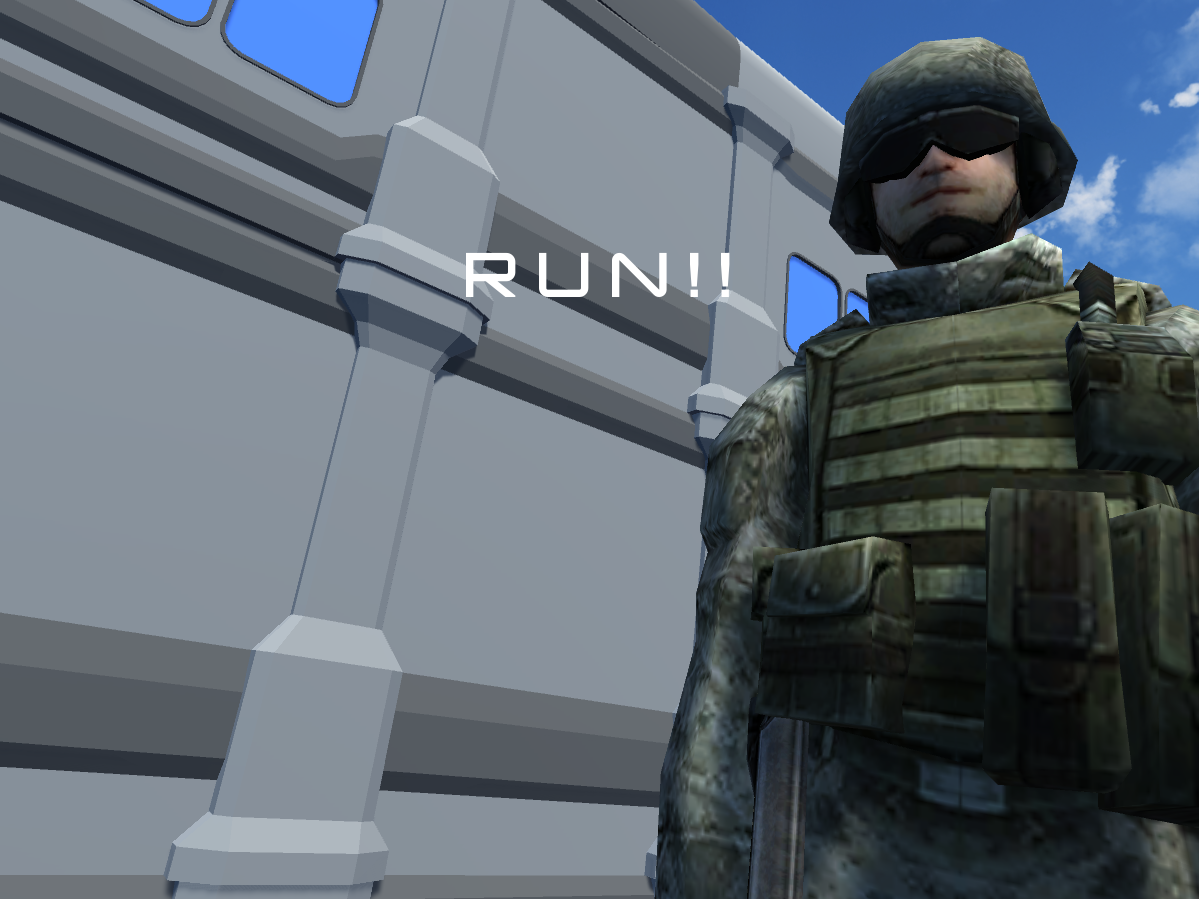
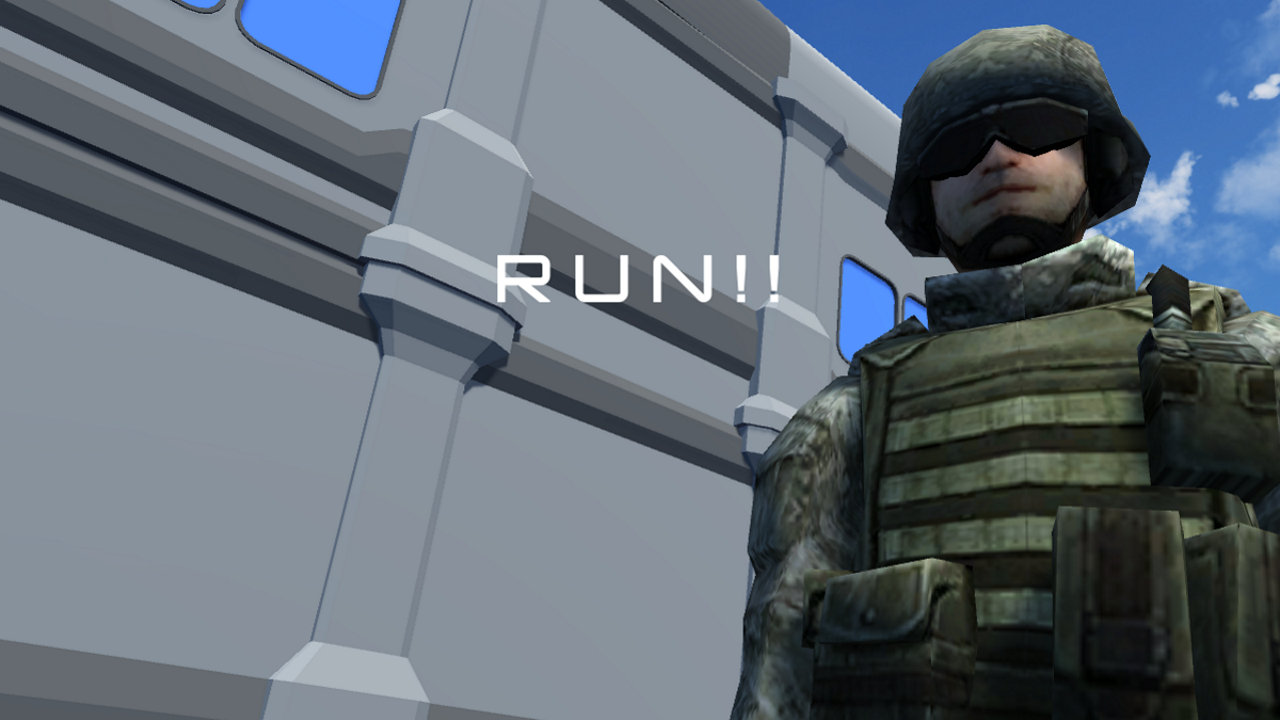
20220926

diff --git a/css/style.css b/css/style.css
@@ -32,8 +32,6 @@ img {
 ---------------------------------*/
 .section {
   position: relative;
-  top: 10%;
-  bottom: 10%;
   padding-bottom: 10%;
 }
 
@@ -71,22 +69,21 @@ img {
   background-color:#f4f4f4;
   box-shadow: 0px 1px 0px #cbcbcb;
   z-index: 2;
-  padding:0% 10%;
 }
 
 .header-inner {
   display: flex;
   align-items: center;
   justify-content: space-between;
-  padding: 2% 0;
+  padding: 20px 30px;
 }
 
 .header-logo {
   font-size: 20px;
   font-weight: bold;
   line-height: 1;
+  margin-right: 20px;
   letter-spacing: 0.05em;
-  margin-right: 10%;
 }
 
 .header-logo a {
@@ -100,20 +97,19 @@ img {
 .header-nav-list {
   display: flex;
   list-style: none;
-  
-  width: 50%;
+  justify-content: space-between;
 }
 
 .header-nav-item:not(:last-child) {
-  margin-right: 5%;
+  margin-right: 20px;
 }
 
 .header-nav-item a {
   font-size: 14px;
   font-weight: bold;
+  padding: 5px 0;
   letter-spacing: 0.05em;
   color: #333;
-  vertical-align: middle;
 }
 
 .header-nav-item a:hover {
@@ -125,20 +121,18 @@ img {
 ---------------------------------*/
 .split {
   width: 100%;
-  height: 90vh;
   display: flex;
   flex-wrap: wrap;
-  padding: 0 10%;
   justify-content: space-between;
   position: relative;
-  top: 10%;
+  margin-top: 65px;
   background-color:#ffffff;
 }
 
 .split-body {
   width: 50%;
   top: 50%;
-  left: 10.5%;
+  left: 5%;
   background-color: rgb(242, 184, 97);
   position: absolute;
   border-radius: 10px;

diff --git a/index.html b/index.html
@@ -52,7 +52,7 @@
     <main>
 
       <!-- split -->
-      <div class="split section">
+      <div class="split">
         <div class="split-body">
           <p class="split-title">荒瀬勇太</p>
           <p class="split-text">
@@ -63,15 +63,15 @@
           </p>
         </div>
 
-          <!-- slider -->
-          <div class="slider">
-            <ul>
-              <li><img class="sliderimage" src="img/work_increasespider.png"></li>
-              <li><img class="sliderimage" src="img/work_run.png"></li>
-              <li><img class="sliderimage" src="img/work_shoottheinvaders.png"></li>
-            </ul>
-          </div>
-          <!-- slider --> 
+        <!-- slider -->
+        <div class="slider">
+          <ul>
+            <li><img class="sliderimage" src="img/work_increasespider.png"></li>
+            <li><img class="sliderimage" src="img/work_run.png"></li>
+            <li><img class="sliderimage" src="img/work_shoottheinvaders.png"></li>
+          </ul>
+        </div>
+        <!-- slider --> 
 
       </div> 
       <!-- /split -->

diff --git a/css/slider.css b/css/slider.css
@@ -1,23 +1,25 @@
 .slider{
-	width: 80%;
-	height: 80%;
-	margin:0 auto;
+	width: 1280px;
+	height: 720px;
+	margin: 0 10%;
+	margin-top: 5%;
 	position:relative;
-	top: 15%;
+	
 }
+
 .slider ul{
 	list-style:none;
 }
 
 .slider ul li{
-	width:100%;
-	height:100%;
 	animation-iteration-count:infinite;
 	animation-duration:24s;
 	position:absolute;
 }
 
 .sliderimage{
+	top: 0;
+	left: 0;
 	width: 100%;
 	height: 100%;
 	border-radius: 5%;
